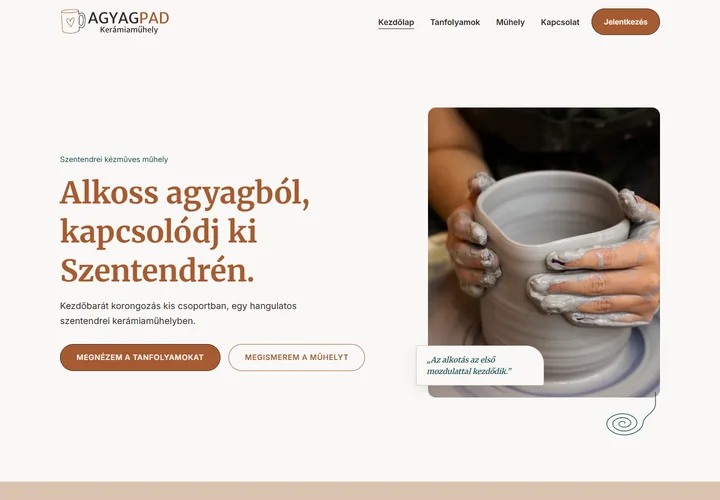
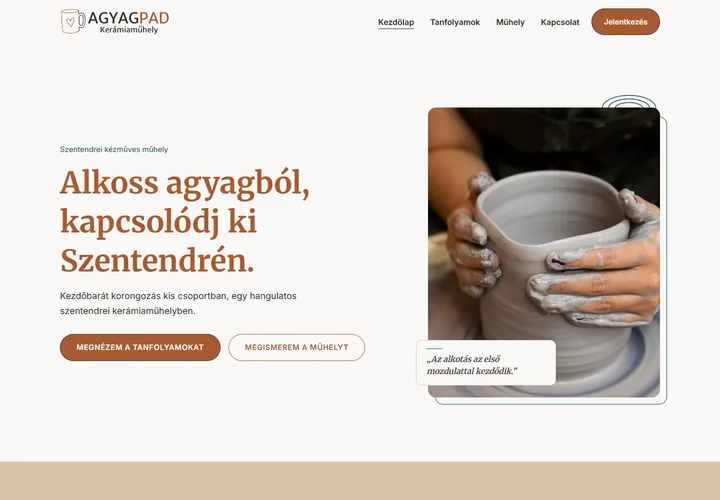
Restore last approved saved design from 16527e0

diff --git a/koncepcio-1-udvari-muhely.html b/koncepcio-1-udvari-muhely.html
@@ -32,8 +32,8 @@
           <a class="button outline" href="#muhely">Megismerem a műhelyt</a>
         </div>
       </div>
-      <figure class="photo-surround"><svg class="pottery-lines pottery-spiral" viewBox="0 0 180 110" fill="none" stroke="currentColor" stroke-width="1.5" stroke-linecap="round" stroke-linejoin="round" aria-hidden="true" focusable="false"><path d="M164 0 L164 24 C164 45 138.4 49.08 137 67 C135.92 81.07 115.29 92.49 95.00 91.80 C74.71 91.11 58.42 78.90 59.50 67.00 C60.58 55.10 78.11 45.67 95.00 46.36 C111.89 47.05 125.08 57.28 124.00 67.00 C122.92 76.72 108.48 84.17 95.00 83.48 C81.52 82.79 71.42 74.54 72.50 67.00 C73.58 59.46 84.92 53.99 95.00 54.68 C105.08 55.37 112.08 61.64 111.00 67.00 C109.92 72.36 101.68 75.85 95.00 75.16 C88.32 74.47 84.42 70.18 85.50 67.00 C86.58 63.82 91.73 62.31 95.00 63.00 C98.27 63.69 99.08 65.99 98.00 67.00"/></svg>
-
+      <figure class="photo-surround">
+        <svg class="pottery-lines" viewBox="0 0 120 80" fill="none" stroke="currentColor" stroke-width="1.5" aria-hidden="true" focusable="false"><ellipse cx="60" cy="40" rx="52" ry="25"/><ellipse cx="60" cy="40" rx="40" ry="18"/><ellipse cx="60" cy="40" rx="27" ry="11"/></svg>
         <img class="photo hero-photo" src="images/webp/agyagpad-hero-800.webp"
               srcset="images/webp/agyagpad-hero-480.webp 480w, images/webp/agyagpad-hero-800.webp 800w, images/webp/agyagpad-hero-1200.webp 1200w, images/webp/agyagpad-hero-1600.webp 1600w"
               sizes="(max-width: 767px) calc(100vw - 40px), (max-width: 1200px) 42vw, 464px" width="3456" height="5184" loading="eager" fetchpriority="high" decoding="async"
@@ -72,7 +72,7 @@
             <p>Fehér Dóra vagyok, az Agyagpad alapítója. Az első korongozó foglalkozásomon az fogott meg, hogy az agyag minden apró mozdulatra válaszol. Ebből a kíváncsiságból született meg később a saját szentendrei műhelyem.</p>
             <p>Ma olyan bögréket, tálakat és vázákat készítek, amelyeket jó kézbe venni a hétköznapokban. A foglalkozásokon pedig azt szeretném megmutatni, hogyan indulhatsz el te is. Kis csoportban dolgozunk, hogy mindenkinek jusson figyelem és segítség az első mozdulatokhoz.</p>
           </div>
-          <figure class="photo-surround"><svg class="pottery-lines pottery-spiral" viewBox="0 0 180 110" fill="none" stroke="currentColor" stroke-width="1.5" stroke-linecap="round" stroke-linejoin="round" aria-hidden="true" focusable="false"><path d="M164 0 L164 24 C164 45 138.4 49.08 137 67 C135.92 81.07 115.29 92.49 95.00 91.80 C74.71 91.11 58.42 78.90 59.50 67.00 C60.58 55.10 78.11 45.67 95.00 46.36 C111.89 47.05 125.08 57.28 124.00 67.00 C122.92 76.72 108.48 84.17 95.00 83.48 C81.52 82.79 71.42 74.54 72.50 67.00 C73.58 59.46 84.92 53.99 95.00 54.68 C105.08 55.37 112.08 61.64 111.00 67.00 C109.92 72.36 101.68 75.85 95.00 75.16 C88.32 74.47 84.42 70.18 85.50 67.00 C86.58 63.82 91.73 62.31 95.00 63.00 C98.27 63.69 99.08 65.99 98.00 67.00"/></svg><img class="photo story-photo" src="images/webp/hero1-800.webp"
+          <figure class="photo-surround"><svg class="pottery-lines" viewBox="0 0 120 80" fill="none" stroke="currentColor" stroke-width="1.5" aria-hidden="true" focusable="false"><ellipse cx="60" cy="40" rx="52" ry="25"/><ellipse cx="60" cy="40" rx="40" ry="18"/><ellipse cx="60" cy="40" rx="27" ry="11"/></svg><img class="photo story-photo" src="images/webp/hero1-800.webp"
               srcset="images/webp/hero1-480.webp 480w, images/webp/hero1-800.webp 800w, images/webp/hero1-1200.webp 1200w, images/webp/hero1-1600.webp 1600w"
               sizes="(max-width: 767px) calc(100vw - 40px), (max-width: 1296px) 40vw, 490px" width="4784" height="3193" loading="lazy" decoding="async"
               alt="A szalmakalapos alkotó agyagedényt formáz az udvari korongnál."></figure>
@@ -92,7 +92,7 @@
               <p>Kitalált bemutatócím, nem látogatható műhelyhelyszín.</p>
             </div>
           </div>
-<div class="shop-composition" aria-label="Kerámiák a műhelyben"><figure class="photo-surround"><svg class="pottery-lines pottery-spiral" viewBox="0 0 180 110" fill="none" stroke="currentColor" stroke-width="1.5" stroke-linecap="round" stroke-linejoin="round" aria-hidden="true" focusable="false"><path d="M164 0 L164 24 C164 45 138.4 49.08 137 67 C135.92 81.07 115.29 92.49 95.00 91.80 C74.71 91.11 58.42 78.90 59.50 67.00 C60.58 55.10 78.11 45.67 95.00 46.36 C111.89 47.05 125.08 57.28 124.00 67.00 C122.92 76.72 108.48 84.17 95.00 83.48 C81.52 82.79 71.42 74.54 72.50 67.00 C73.58 59.46 84.92 53.99 95.00 54.68 C105.08 55.37 112.08 61.64 111.00 67.00 C109.92 72.36 101.68 75.85 95.00 75.16 C88.32 74.47 84.42 70.18 85.50 67.00 C86.58 63.82 91.73 62.31 95.00 63.00 C98.27 63.69 99.08 65.99 98.00 67.00"/></svg><img class="photo" src="images/webp/muhelybolt-800.webp" srcset="images/webp/muhelybolt-480.webp 480w, images/webp/muhelybolt-800.webp 800w, images/webp/muhelybolt-1200.webp 1200w, images/webp/muhelybolt-1600.webp 1600w" sizes="(min-width:1296px) 576px, (min-width:768px) 44vw, calc(100vw - 40px)" width="5410" height="3607" loading="lazy" decoding="async" alt="Kész kerámiabögrék, az előtérben szívmintás bögre fa alátéten."></figure></div>
+<div class="shop-composition" aria-label="Kerámiák a műhelyben"><figure class="photo-surround"><svg class="pottery-lines" viewBox="0 0 120 80" fill="none" stroke="currentColor" stroke-width="1.5" aria-hidden="true" focusable="false"><ellipse cx="60" cy="40" rx="52" ry="25"/><ellipse cx="60" cy="40" rx="40" ry="18"/><ellipse cx="60" cy="40" rx="27" ry="11"/></svg><img class="photo" src="images/webp/muhelybolt-800.webp" srcset="images/webp/muhelybolt-480.webp 480w, images/webp/muhelybolt-800.webp 800w, images/webp/muhelybolt-1200.webp 1200w, images/webp/muhelybolt-1600.webp 1600w" sizes="(min-width:1296px) 576px, (min-width:768px) 44vw, calc(100vw - 40px)" width="5410" height="3607" loading="lazy" decoding="async" alt="Kész kerámiabögrék, az előtérben szívmintás bögre fa alátéten."></figure></div>
         </div>
       </div>
     </section>

diff --git a/assets/udvari-muhely.css b/assets/udvari-muhely.css
@@ -139,10 +139,3 @@ p,.detail-link,.button,.notes-grid li,figcaption{overflow-wrap:anywhere}
 .hero .portrait-caption::before{content:none}
 .hero .photo-surround::before{inset:18px -14px -14px 14px}
 @media(max-width:47.999rem){.hero .portrait-caption{left:1rem;bottom:1rem;padding:.875rem 1rem}.hero .photo-surround::before{inset:14px -6px -10px 12px}}
-.hero .portrait-caption{z-index:2}
-
-/* Egyetlen levezetett vonal, háromfordulatú korongspirállal. */
-.photo-surround{margin-bottom:2.5rem}
-.photo-surround::before{content:none}
-.photo-surround .pottery-spiral{top:auto;right:-6px;bottom:-92px;width:168px;height:103px;z-index:1}
-@media(max-width:47.999rem){.photo-surround .pottery-spiral{right:-4px;bottom:-76px;width:140px;height:86px}}

diff --git a/ellenorzes/eredmenyek.md b/ellenorzes/eredmenyek.md
@@ -107,7 +107,3 @@ A Jelentkezés fejlécgomb text-transform: none beállítást kapott. A bögre m
 A türkiz fotókeretek 1,5 px-es vonalat kaptak; a bemutatkozó és műhelybolti fotó mellett jobb oldali koronggyűrű-motívum jelenik meg. A műhelybolt tartalmi sorrendje szöveg, fotó: asztalon bal/jobb, mobilon fent/lent. A hero idézete olvasható törtfehér kártyán a fotó bal alsó részére került, grafit dőlt Merriweather szöveggel és rövid türkiz vonallal. Új szín nincs.
 
 A legutóbbi főoldalellenőrzés hét futása sikeres (320, 390, 768, 1024, 1440 px, valamint mobil és asztal 200%-os szöveggel). Külön vizsgálja az idézet fotón belüli függőleges elhelyezését, a műhelybolt sorrendjét, a gomb normál betűhasználatát és az SVG-favicon hivatkozását. A 30 fejlécpróba a gomb és az új logó mellett is sikeres volt.
-
-### Fotómotívum: levezetett vonal, korongspirál
-
-A három díszített fotón a korábbi körgyűrűk és keretek helyét egy jobb alsó saroktól induló, lefelé vezetett türkiz vonal vette át, háromfordulatú spirálvéggel. Mindhárom dekoráció egyetlen folyamatos SVG-útvonal; mobilon kisebb méretben jelenik meg. A főoldal hét ellenőrzési futása sikeres, 200%-os szövegmérettel is. A hero aktuális képernyőképén a spirál a kép alatt, az idézettől külön, tartalmi takarás nélkül látható.

diff --git a/tervezes/design-system.md b/tervezes/design-system.md
@@ -136,6 +136,3 @@ Az éles űrlap, adatkezelési tájékoztató, tételes képkreditek, végleges 
 Favicon: images/logo/Agyagpad-favicon-transparent.svg, 256 px-es átlátszó PNG-tartalékkal; a korábbi WebP ikon is átlátszó változatra frissült. Az eredeti háttérrel rendelkező forrásfájlok megmaradnak, az oldal a háttér nélküli változatokat használja.
 
 A műhelybolt blokk tartalmi és vizuális sorrendje szöveg, majd fotó: asztalon szöveg balra, fotó jobbra; mobilon szöveg felül és fotó alatta. A kép jobb oldali türkiz kerete és koronggyűrűi megmaradnak.
-
-
-Aktuális fotómotívum: mindhárom korábban díszített fotó (hero, bemutatkozás, műhelybolt) jobb alsó sarkától egyetlen türkiz vonal indul lefelé, és háromfordulatú, korongozott agyagot idéző spirálban végződik. A külön ellipszisek, a fotó előtti/mögötti összefonódó ívek és az eltolt téglalapkeretek kikerültek. A motívum a fotó alatt kap helyet; mobilon kisebb, a környező tartalomtól megfelelő távolságra. A meglévő #1B4D4F színt használja.
